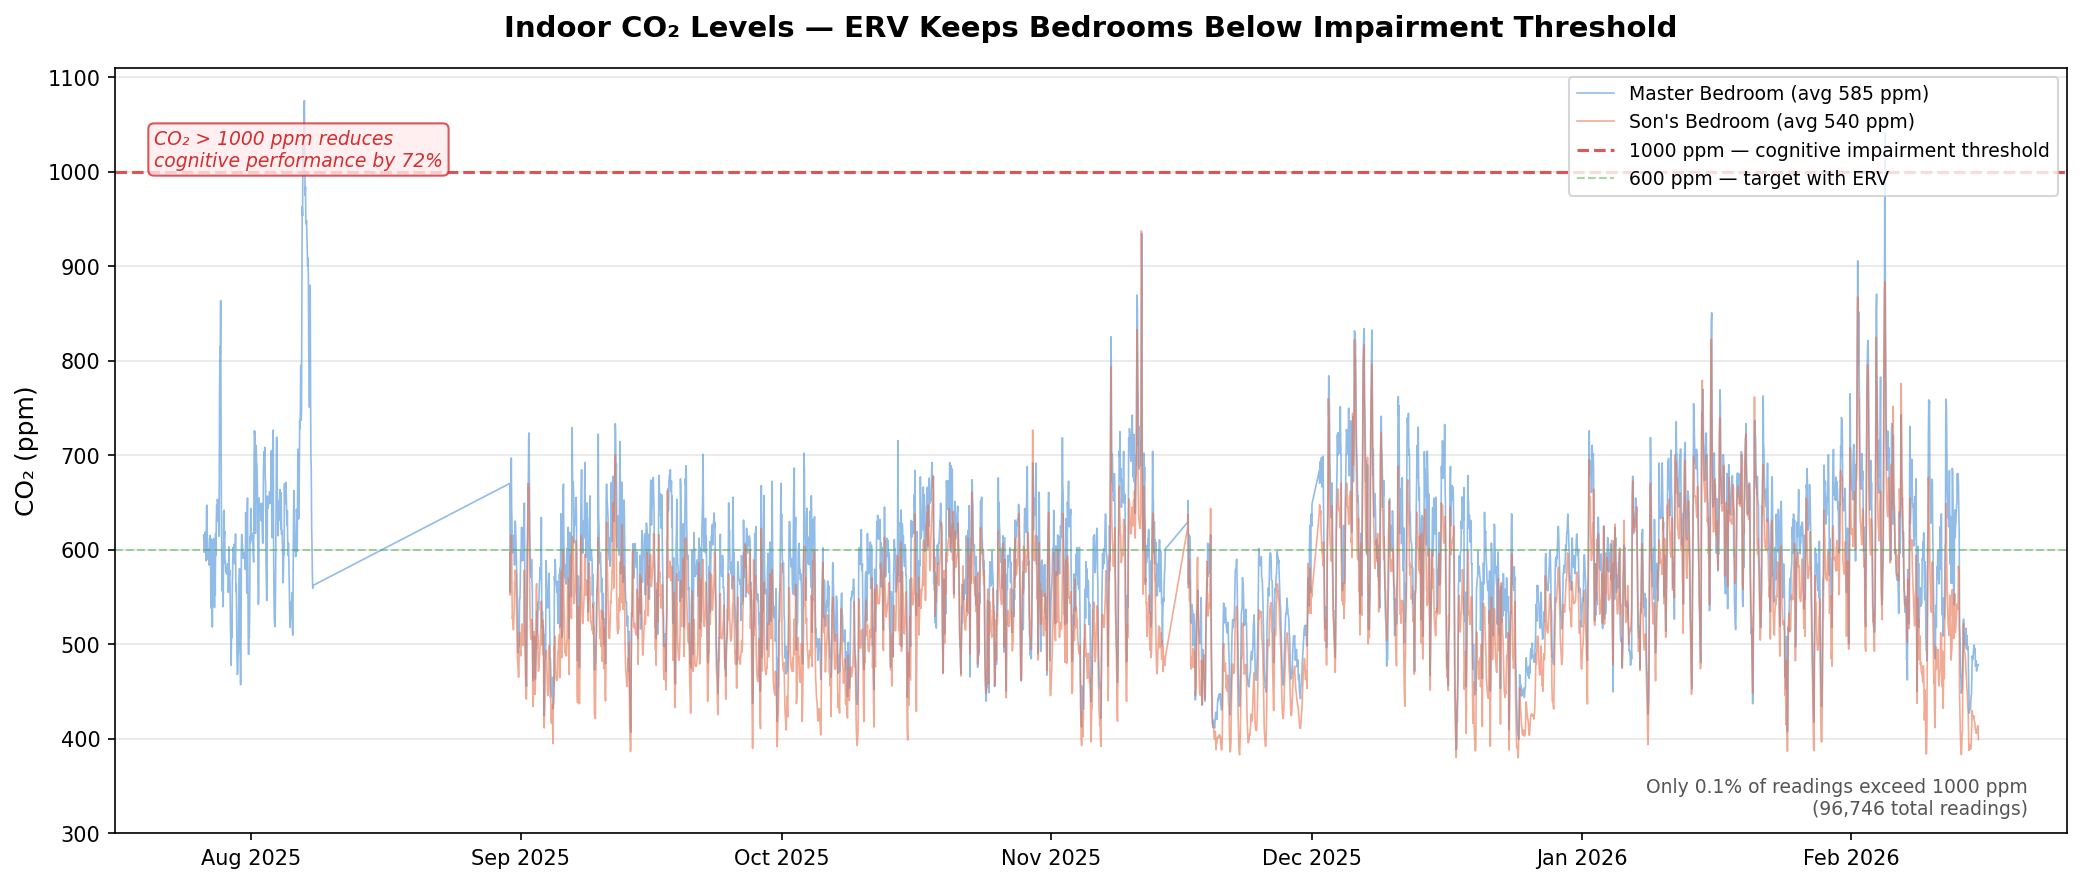
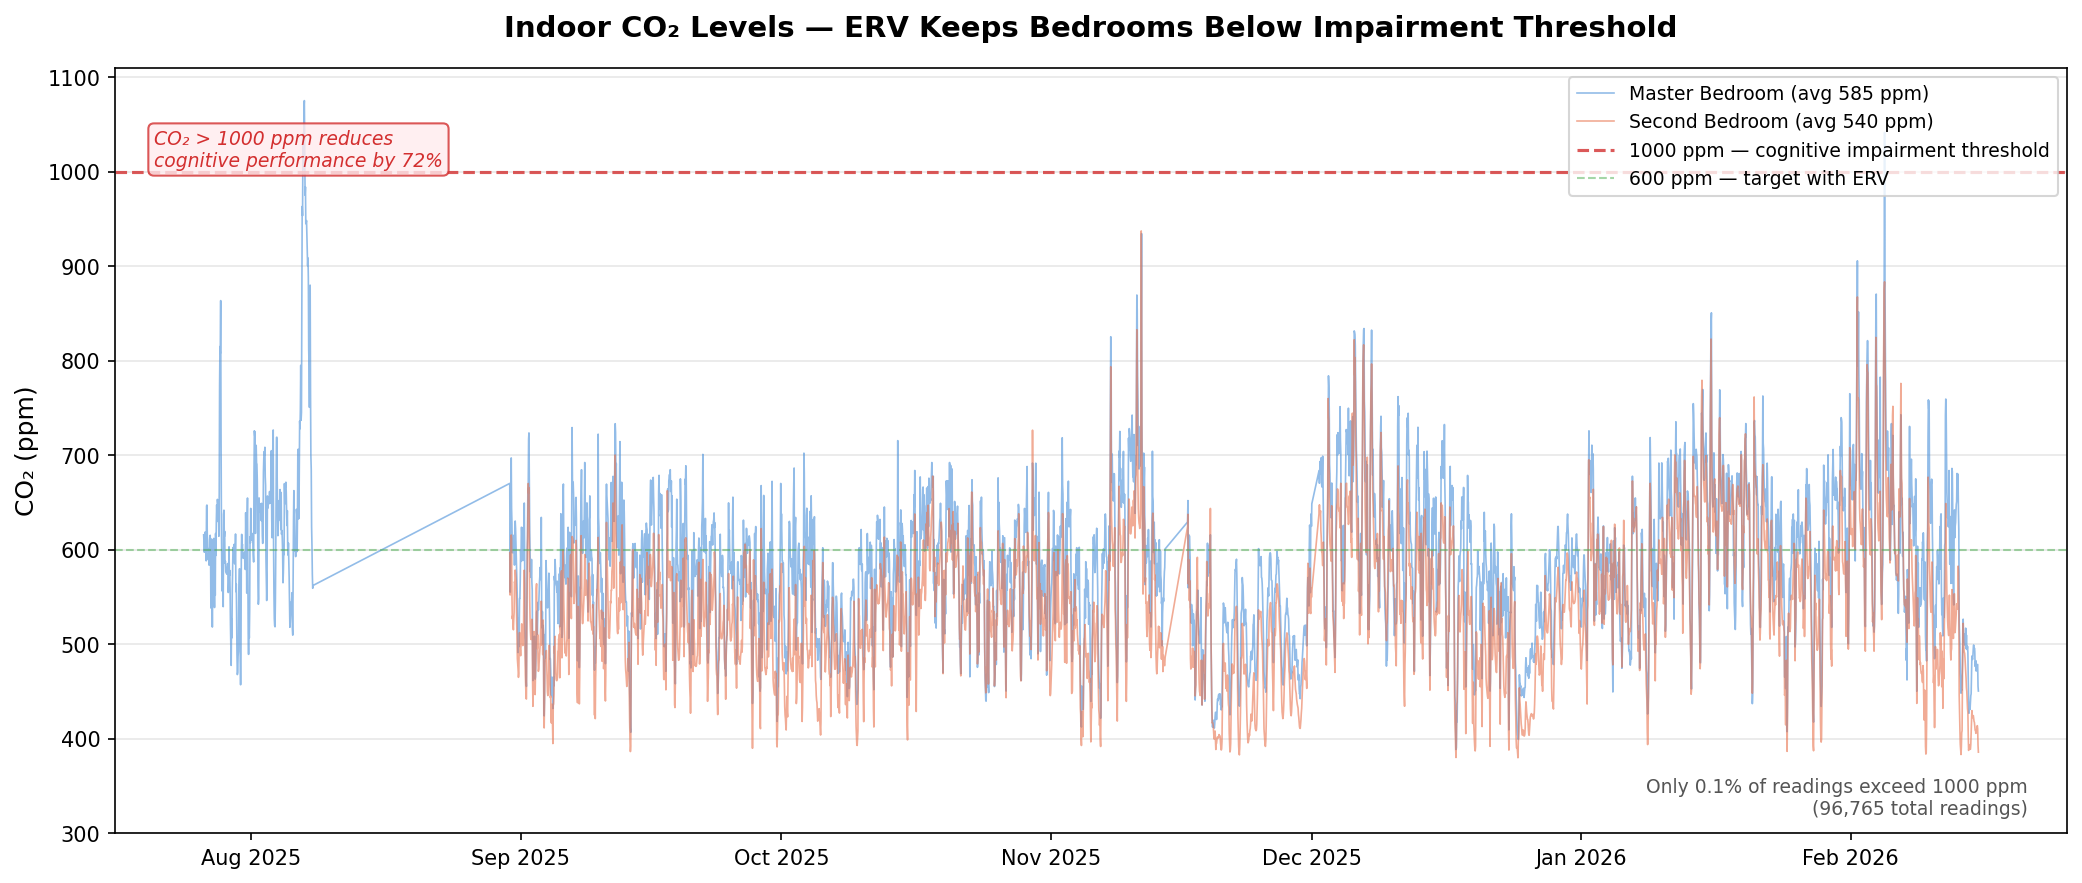
fix: regenerate PNGs with "Second Bedroom" label, add Parquet cache fallback
Regenerated all three visualization PNGs from Parquet cache so the
CO2 chart legend reads "Second Bedroom" instead of "Son's Bedroom".
Added Parquet cache as preferred data source in create_visualizations.py,
falling back to Google Sheets API when cache is unavailable.

diff --git a/scripts/create_visualizations.py b/scripts/create_visualizations.py
@@ -23,8 +23,21 @@ load_dotenv()
 OUTPUT_DIR = os.path.join(os.path.dirname(os.path.dirname(__file__)), "images")
 
 
+CACHE_PATH = os.path.join(
+    os.path.dirname(os.path.dirname(__file__)), ".cache", "air_quality.parquet"
+)
+
+
 def fetch_data():
-    """Fetch air quality data from Google Sheets."""
+    """Fetch air quality data from Parquet cache or Google Sheets."""
+    if os.path.exists(CACHE_PATH):
+        print(f"Reading from Parquet cache: {CACHE_PATH}")
+        df = pd.read_parquet(CACHE_PATH)
+        df = df.dropna(subset=["Timestamp"]).sort_values("Timestamp")
+        print(f"Loaded {len(df):,} rows from cache")
+        return df
+
+    print("No Parquet cache found, fetching from Google Sheets...")
     spreadsheet_id = os.getenv("GOOGLE_SPREADSHEET_ID")
     sheet_tab = os.getenv("GOOGLE_SHEET_TAB", "")
 
